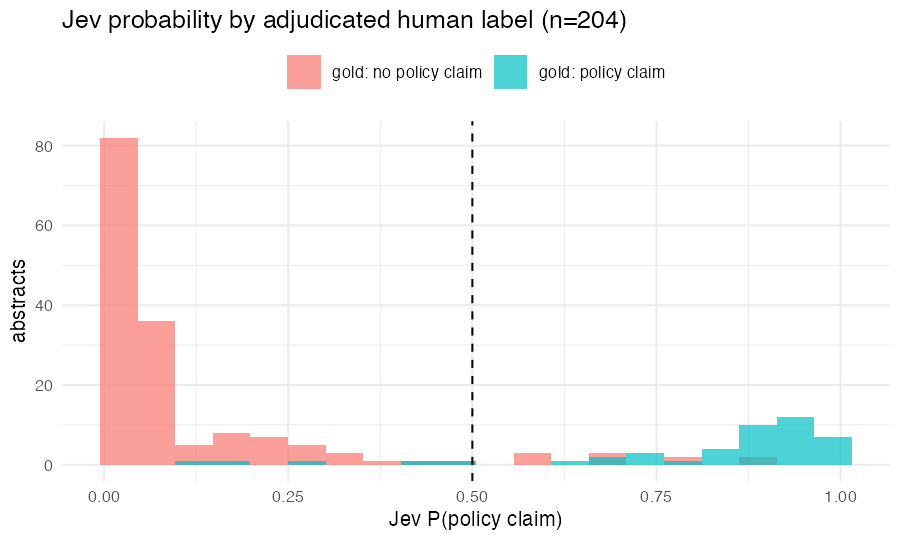
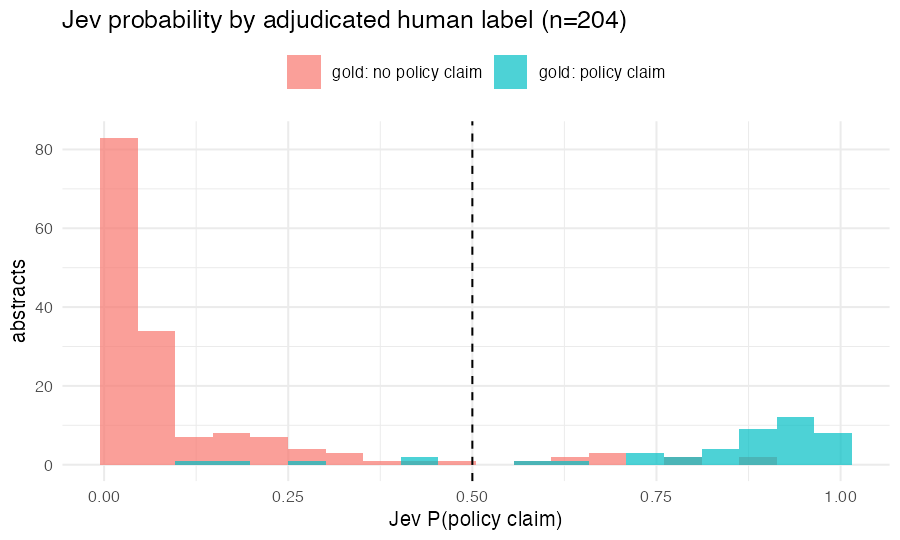
R pass over the full corpus: identical filter output, resumed Jev labels, R report and tables

diff --git a/table/jev_accuracy_report_R.md b/table/jev_accuracy_report_R.md
@@ -9,19 +9,19 @@ Used only to check the question wording; no human labels here.
 
 | comparison | n | agreement_pct | agreement_ci | kappa | kappa_ci | sensitivity | specificity | ppv | npv | prevalence_ref_pct | prevalence_pred_pct |
 |---|---|---|---|---|---|---|---|---|---|---|---|
-| dev400: Jev noul vs DeepSeek | 400 | 89.800 | (86.7, 92.8) | 0.770 | (0.705, 0.832) | 1 | 0.858 | 0.730 | 1 | 27.800 | 38 |
-| dev400: Jev choice vs DeepSeek | 400 | 89.800 | (86.8, 92.5) | 0.769 | (0.702, 0.828) | 0.991 | 0.862 | 0.733 | 0.996 | 27.800 | 37.500 |
+| dev400: Jev noul vs DeepSeek | 400 | 89.200 | (86.0, 92.2) | 0.758 | (0.686, 0.821) | 0.982 | 0.858 | 0.727 | 0.992 | 27.800 | 37.500 |
+| dev400: Jev choice vs DeepSeek | 400 | 89.500 | (86.2, 92.5) | 0.764 | (0.698, 0.825) | 0.991 | 0.858 | 0.728 | 0.996 | 27.800 | 37.800 |
 
 Calibration of Jev's P(policy claim) against the DeepSeek label:
 
 | p_yes_bin | n | observed_rate | mean_p_yes_pct |
 |---|---|---|---|
-| [0,0.1] | 188 |   0 | 4.500 |
-| (0.1,0.3] |  44 |   0 | 18 |
-| (0.3,0.5] |  18 | 5.600 | 39.600 |
-| (0.5,0.7] |  33 | 21.200 | 59.300 |
-| (0.7,0.9] |  50 |  72 | 82 |
-| (0.9,1] |  67 | 100 | 95.100 |
+| [0,0.1] | 189 |   0 | 4.600 |
+| (0.1,0.3] |  46 |   0 | 19 |
+| (0.3,0.5] |  15 | 13.300 | 42 |
+| (0.5,0.7] |  31 | 16.100 | 59.200 |
+| (0.7,0.9] |  54 | 72.200 | 81.900 |
+| (0.9,1] |  65 | 100 | 95.200 |
 
 ## 2. Gold standard workbook (n=204 abstracts with human review)
 
@@ -31,33 +31,33 @@ The paper reports DeepSeek vs the adjudicated gold standard: kappa 0.80, sensiti
 |---|---|---|---|---|---|---|---|---|---|---|---|
 | gold: DeepSeek vs adjudicated gold standard | 204 | 92.600 | (89.2, 96.1) | 0.803 | (0.703, 0.891) | 0.956 | 0.918 | 0.768 | 0.986 | 22.100 | 27.500 |
 | gold: Jev noul vs adjudicated gold standard | 204 | 92.600 | (88.7, 96.1) | 0.794 | (0.688, 0.886) | 0.889 | 0.937 | 0.800 | 0.968 | 22.100 | 24.500 |
-| gold: Jev choice vs adjudicated gold standard | 204 | 92.200 | (88.2, 95.6) | 0.782 | (0.675, 0.877) | 0.889 | 0.931 | 0.784 | 0.967 | 22.100 | 25 |
+| gold: Jev choice vs adjudicated gold standard | 204 | 92.200 | (88.2, 95.6) | 0.782 | (0.674, 0.877) | 0.889 | 0.931 | 0.784 | 0.967 | 22.100 | 25 |
 | gold: DeepSeek vs gold standard excl. non-empirical/truncated | 197 | 92.900 | (89.3, 95.9) | 0.805 | (0.702, 0.891) | 0.952 | 0.923 | 0.769 | 0.986 | 21.300 | 26.400 |
 | gold: Jev noul vs gold standard excl. non-empirical/truncated | 197 | 92.900 | (89.3, 95.9) | 0.799 | (0.684, 0.891) | 0.905 | 0.935 | 0.792 | 0.973 | 21.300 | 24.400 |
-| gold: Jev choice vs gold standard excl. non-empirical/truncated | 197 | 92.400 | (88.3, 95.9) | 0.786 | (0.673, 0.885) | 0.905 | 0.929 | 0.776 | 0.973 | 21.300 | 24.900 |
+| gold: Jev choice vs gold standard excl. non-empirical/truncated | 197 | 92.400 | (88.3, 95.9) | 0.786 | (0.667, 0.880) | 0.905 | 0.929 | 0.776 | 0.973 | 21.300 | 24.900 |
 | gold: DeepSeek vs reviewer DB (author 1) | 204 | 91.200 | (87.3, 94.6) | 0.765 | (0.657, 0.859) | 0.913 | 0.911 | 0.750 | 0.973 | 22.500 | 27.500 |
 | gold: Jev noul vs reviewer DB (author 1) | 204 | 91.200 | (87.3, 95.1) | 0.755 | (0.647, 0.859) | 0.848 | 0.930 | 0.780 | 0.955 | 22.500 | 24.500 |
-| gold: Jev choice vs reviewer DB (author 1) | 204 | 90.700 | (86.8, 94.6) | 0.743 | (0.635, 0.845) | 0.848 | 0.924 | 0.765 | 0.954 | 22.500 | 25 |
+| gold: Jev choice vs reviewer DB (author 1) | 204 | 90.700 | (86.8, 94.6) | 0.743 | (0.636, 0.847) | 0.848 | 0.924 | 0.765 | 0.954 | 22.500 | 25 |
 | gold: DeepSeek vs reviewer EC (author 5) | 204 | 92.600 | (89.2, 96.1) | 0.803 | (0.703, 0.891) | 0.956 | 0.918 | 0.768 | 0.986 | 22.100 | 27.500 |
 | gold: Jev noul vs reviewer EC (author 5) | 204 | 92.600 | (88.7, 96.1) | 0.794 | (0.688, 0.886) | 0.889 | 0.937 | 0.800 | 0.968 | 22.100 | 24.500 |
-| gold: Jev choice vs reviewer EC (author 5) | 204 | 92.200 | (88.2, 95.6) | 0.782 | (0.675, 0.877) | 0.889 | 0.931 | 0.784 | 0.967 | 22.100 | 25 |
+| gold: Jev choice vs reviewer EC (author 5) | 204 | 92.200 | (88.2, 95.6) | 0.782 | (0.674, 0.877) | 0.889 | 0.931 | 0.784 | 0.967 | 22.100 | 25 |
 | gold: DeepSeek vs reviewer MW (author 2) | 104 | 95.200 | (90.4, 99.0) | 0.882 | (0.770, 0.974) | 0.931 | 0.960 | 0.900 | 0.973 | 27.900 | 28.800 |
 | gold: Jev noul vs reviewer MW (author 2) | 104 | 94.200 | (89.4, 98.1) | 0.853 | (0.719, 0.956) | 0.862 | 0.973 | 0.926 | 0.948 | 27.900 | 26 |
-| gold: Jev choice vs reviewer MW (author 2) | 104 | 94.200 | (89.4, 98.1) | 0.853 | (0.719, 0.956) | 0.862 | 0.973 | 0.926 | 0.948 | 27.900 | 26 |
+| gold: Jev choice vs reviewer MW (author 2) | 104 | 93.300 | (88.5, 97.1) | 0.831 | (0.692, 0.939) | 0.862 | 0.960 | 0.893 | 0.947 | 27.900 | 26.900 |
 | gold: Jev noul vs DeepSeek | 204 | 93.100 | (89.7, 96.1) | 0.822 | (0.731, 0.904) | 0.821 | 0.973 | 0.920 | 0.935 | 27.500 | 24.500 |
-| gold: Jev choice vs DeepSeek | 204 | 93.600 | (90.2, 96.6) | 0.835 | (0.746, 0.911) | 0.839 | 0.973 | 0.922 | 0.941 | 27.500 | 25 |
+| gold: Jev choice vs DeepSeek | 204 | 93.600 | (90.2, 96.6) | 0.835 | (0.746, 0.910) | 0.839 | 0.973 | 0.922 | 0.941 | 27.500 | 25 |
 
-Jev P(policy claim) vs the adjudicated gold standard: AUC = 0.978, Brier score = 0.053 (n=204).
+Jev P(policy claim) vs the adjudicated gold standard: AUC = 0.977, Brier score = 0.053 (n=204).
 
 Calibration against the adjudicated gold standard:
 
 | p_yes_bin | n | observed_rate | mean_p_yes_pct |
 |---|---|---|---|
-| [0,0.1] | 120 | 0.800 | 4.300 |
-| (0.1,0.3] |  26 | 7.700 | 19.800 |
-| (0.3,0.5] |   8 |  25 | 39.600 |
-| (0.5,0.7] |   9 | 33.300 | 64.400 |
-| (0.7,0.9] |  20 |  80 | 84.200 |
+| [0,0.1] | 118 |   0 | 4.200 |
+| (0.1,0.3] |  28 | 10.700 | 18.900 |
+| (0.3,0.5] |   8 |  25 | 39.100 |
+| (0.5,0.7] |   8 |  25 | 63 |
+| (0.7,0.9] |  21 |  81 | 83.800 |
 | (0.9,1] |  21 | 100 | 95.400 |
 
 ## 3. Blinded stratified sample (n=400, 1990-2024), reviewers DB and EC
@@ -67,16 +67,16 @@ Adjudicated label = DB where DB and EC agree, otherwise DB's double-check (rule 
 | comparison | n | agreement_pct | agreement_ci | kappa | kappa_ci | sensitivity | specificity | ppv | npv | prevalence_ref_pct | prevalence_pred_pct |
 |---|---|---|---|---|---|---|---|---|---|---|---|
 | strat400: DeepSeek vs adjudicated manual label | 400 | 86 | (82.5, 89.2) | 0.655 | (0.567, 0.733) | 0.661 | 0.952 | 0.866 | 0.858 | 31.800 | 24.200 |
-| strat400: Jev noul vs adjudicated manual label | 400 | 89.800 | (86.5, 92.5) | 0.759 | (0.680, 0.823) | 0.803 | 0.941 | 0.864 | 0.911 | 31.800 | 29.500 |
-| strat400: Jev choice vs adjudicated manual label | 400 | 90.800 | (87.8, 93.3) | 0.784 | (0.712, 0.845) | 0.835 | 0.941 | 0.869 | 0.924 | 31.800 | 30.500 |
+| strat400: Jev noul vs adjudicated manual label | 400 | 90 | (86.8, 92.8) | 0.765 | (0.685, 0.829) | 0.811 | 0.941 | 0.866 | 0.915 | 31.800 | 29.800 |
+| strat400: Jev choice vs adjudicated manual label | 400 | 90.500 | (87.2, 93.2) | 0.778 | (0.703, 0.841) | 0.827 | 0.941 | 0.868 | 0.921 | 31.800 | 30.200 |
 | strat400: DeepSeek vs reviewer DB (blinded) | 400 | 83.200 | (79.5, 87.0) | 0.611 | (0.527, 0.693) | 0.603 | 0.965 | 0.907 | 0.809 | 36.500 | 24.200 |
-| strat400: Jev noul vs reviewer DB (blinded) | 400 | 87 | (83.2, 90.2) | 0.708 | (0.631, 0.778) | 0.726 | 0.953 | 0.898 | 0.858 | 36.500 | 29.500 |
-| strat400: Jev choice vs reviewer DB (blinded) | 400 | 88 | (84.5, 91.0) | 0.732 | (0.655, 0.802) | 0.753 | 0.953 | 0.902 | 0.871 | 36.500 | 30.500 |
+| strat400: Jev noul vs reviewer DB (blinded) | 400 | 87.200 | (83.8, 90.2) | 0.714 | (0.637, 0.782) | 0.733 | 0.953 | 0.899 | 0.861 | 36.500 | 29.800 |
+| strat400: Jev choice vs reviewer DB (blinded) | 400 | 87.800 | (84.2, 90.8) | 0.726 | (0.646, 0.798) | 0.747 | 0.953 | 0.901 | 0.867 | 36.500 | 30.200 |
 | strat400: DeepSeek vs reviewer EC (blinded) | 400 | 85.800 | (82.2, 89.0) | 0.643 | (0.558, 0.723) | 0.664 | 0.942 | 0.835 | 0.865 | 30.500 | 24.200 |
-| strat400: Jev noul vs reviewer EC (blinded) | 400 | 89 | (85.5, 91.8) | 0.738 | (0.658, 0.808) | 0.803 | 0.928 | 0.831 | 0.915 | 30.500 | 29.500 |
-| strat400: Jev choice vs reviewer EC (blinded) | 400 | 90 | (87.0, 92.8) | 0.764 | (0.692, 0.832) | 0.836 | 0.928 | 0.836 | 0.928 | 30.500 | 30.500 |
+| strat400: Jev noul vs reviewer EC (blinded) | 400 | 89.200 | (86.0, 92.0) | 0.745 | (0.666, 0.811) | 0.811 | 0.928 | 0.832 | 0.918 | 30.500 | 29.800 |
+| strat400: Jev choice vs reviewer EC (blinded) | 400 | 89.800 | (86.5, 92.5) | 0.758 | (0.681, 0.826) | 0.828 | 0.928 | 0.835 | 0.925 | 30.500 | 30.200 |
 | strat400: reviewer EC vs reviewer DB (human-human) | 400 | 94 | (91.5, 96.2) | 0.866 | (0.809, 0.914) | 0.836 | 1 | 1 | 0.914 | 36.500 | 30.500 |
-| strat400: Jev noul vs DeepSeek | 400 | 93.200 | (90.8, 95.8) | 0.829 | (0.767, 0.889) | 0.969 | 0.921 | 0.797 | 0.989 | 24.200 | 29.500 |
+| strat400: Jev noul vs DeepSeek | 400 | 93.500 | (91.2, 96.0) | 0.836 | (0.776, 0.897) | 0.979 | 0.921 | 0.798 | 0.993 | 24.200 | 29.800 |
 
 Jev P(policy claim) vs the adjudicated manual label: AUC = 0.956, Brier = 0.076.
 
@@ -87,7 +87,7 @@ Policy-claim rate by period (Supplementary Table 8 style; Wilson 95% CIs; chi-sq
 | 1990-1999 | 114 | 19.300 | (13.1, 27.5) | 13.200 | (8.1, 20.6) | 16.700 | (10.9, 24.6) |
 | 2000-2009 | 115 | 27.800 | (20.5, 36.6) | 22.600 | (15.9, 31.1) | 27.800 | (20.5, 36.6) |
 | 2010-2019 | 114 | 36 | (27.7, 45.1) | 27.200 | (19.9, 36.0) | 31.600 | (23.8, 40.6) |
-| 2020-2024 |  57 | 56.100 | (43.3, 68.2) | 43.900 | (31.8, 56.7) | 54.400 | (41.6, 66.6) |
+| 2020-2024 |  57 | 56.100 | (43.3, 68.2) | 43.900 | (31.8, 56.7) | 56.100 | (43.3, 68.2) |
 
 ## 4. Test-retest reliability (repeated Jev runs on the gold-standard abstracts)
 
@@ -95,13 +95,84 @@ DeepSeek reference (paper): kappa 0.90-0.98 across three runs of 200 abstracts a
 
 | comparison | n | kappa | agreement_pct | mean_abs_diff_p_yes | max_abs_diff_p_yes | deepseek_kappa_reference |
 |---|---|---|---|---|---|---|
-| run1 vs run2 | 204 | 1 | 100 | 0.004 | 0.050 | 0.905 |
+| run1 vs run2 | 204 | 1 | 100 | 0.004 | 0.030 | 0.905 |
 | run1 vs run3 | 204 | 1 | 100 | 0.005 | 0.040 | 0.930 |
-| run2 vs run3 | 204 | 1 | 100 | 0.005 | 0.050 | 0.978 |
+| run2 vs run3 | 204 | 1 | 100 | 0.004 | 0.060 | 0.978 |
 
-## 5. Full corpus
+## 5. Full corpus: Jev vs DeepSeek
 
-_Not yet run: `data/json_files/filtered/all_abstracts_JEV.csv` not found. Fetch the abstracts (01_fetch_abstracts.R, 02_filter_records.R) and run 03_run_jev_classification.R._
+Matched 45,671 of 46,279 Jev-classified abstracts to the derived dataset by DOI (fallback title+journal+year); 608 unmatched.
+
+| comparison | n | agreement_pct | agreement_ci | kappa | kappa_ci | sensitivity | specificity | ppv | npv | prevalence_ref_pct | prevalence_pred_pct |
+|---|---|---|---|---|---|---|---|---|---|---|---|
+| corpus: Jev noul vs DeepSeek | 45671 | 92.600 | (92.4, 92.8) | 0.819 | (0.814, 0.824) | 0.963 | 0.913 | 0.793 | 0.986 | 25.600 | 31.100 |
+| corpus: Jev choice vs DeepSeek | 45671 | 92.300 | (92.0, 92.5) | 0.812 | (0.807, 0.818) | 0.967 | 0.908 | 0.783 | 0.987 | 25.600 | 31.600 |
+
+### By period (Table 1 style, % with policy claim)
+
+| row | DeepSeek 1990-1999 | Jev 1990-1999 | DeepSeek 2000-2009 | Jev 2000-2009 | DeepSeek 2010-2019 | Jev 2010-2019 | DeepSeek 2020-2024 | Jev 2020-2024 | DeepSeek All years | Jev All years |
+|---|---|---|---|---|---|---|---|---|---|---|
+| All abstracts | 17.700 | 23 | 22.800 | 27.600 | 28.400 | 34.200 | 35.800 | 42 | 25.600 | 31.100 |
+| Journal: American Journal of Epidemiology | 8.200 | 10.400 | 8.600 | 9.700 | 11 | 12.400 | 15.600 | 18.500 | 9.900 | 11.600 |
+| Journal: American Journal of Preventive Medicine | 31.700 | 41 | 37.200 | 45.100 | 35.900 | 44.900 | 47.200 | 56.700 | 38.200 | 47.100 |
+| Journal: American Journal of Public Health | 24.500 | 31.700 | 33.700 | 40.600 | 38.600 | 48.700 | 46.200 | 55.700 | 33.700 | 42 |
+| Journal: Epidemiology | 1.300 | 2.300 | 4.200 | 4.600 | 4.500 | 5.900 | 5.100 | 7.700 | 3.700 | 4.800 |
+| Journal: European Journal of Epidemiology | 19.500 | 23.500 | 15.300 | 18.100 | 10 | 11.600 | 14.300 | 15.700 | 14.400 | 16.800 |
+| Journal: European Journal of Public Health | 27.800 | 33.500 | 33.600 | 40.300 | 40.300 | 45.200 | 45.200 | 51.100 | 38.600 | 44.300 |
+| Journal: International Journal of Epidemiology | 15.400 | 19.900 | 20 | 23 | 16.400 | 18.800 | 20 | 22.900 | 17.500 | 20.800 |
+| Journal: Journal of Epidemiology and Community Health | 20.800 | 27 | 25.900 | 30.200 | 30.500 | 35.200 | 40.800 | 44.200 | 28.700 | 33.400 |
+| Journal: Lancet Public Health |  |  |  |  | 59.100 | 75.600 | 64 | 77.600 | 62.400 | 76.900 |
+| Journal: Preventive Medicine | 25.100 | 35.900 | 30.300 | 40.200 | 38.100 | 45.900 | 45.300 | 53.200 | 35.700 | 44.500 |
+
+### By journal
+
+| journal | n | deepseek_rate_pct | jev_rate_pct | agreement_pct | kappa |
+|---|---|---|---|---|---|
+| Epidemiology | 3094 | 3.700 | 4.800 | 97.700 | 0.718 |
+| American Journal of Epidemiology | 7914 | 9.900 | 11.600 | 96.600 | 0.821 |
+| European Journal of Epidemiology | 2655 | 14.400 | 16.800 | 96 | 0.850 |
+| International Journal of Epidemiology | 4790 | 17.500 | 20.800 | 95 | 0.838 |
+| Journal of Epidemiology and Community Health | 4269 | 28.700 | 33.400 | 93.500 | 0.848 |
+| American Journal of Public Health | 7801 | 33.700 | 42 | 89.900 | 0.786 |
+| Preventive Medicine | 6366 | 35.700 | 44.500 | 89.100 | 0.776 |
+| American Journal of Preventive Medicine | 5177 | 38.200 | 47.100 | 88.200 | 0.760 |
+| European Journal of Public Health | 3206 | 38.600 | 44.300 | 92.300 | 0.842 |
+| Lancet Public Health |  399 | 62.400 | 76.900 | 84.500 | 0.641 |
+
+### Top-15 countries (first author)
+
+| country | n | deepseek_rate_pct | jev_rate_pct | agreement_pct | kappa |
+|---|---|---|---|---|---|
+| NORWAY |   599 | 12 | 14 | 97 | 0.867 |
+| DENMARK |  1019 | 14.100 | 17.300 | 96.100 | 0.852 |
+| JAPAN |   535 | 16.300 | 17.900 | 97.200 | 0.901 |
+| SWEDEN |  1518 | 17.500 | 20.400 | 96 | 0.872 |
+| GERMANY |   698 | 21.200 | 23.900 | 96.400 | 0.898 |
+| FINLAND |   789 | 21.300 | 25 | 94.800 | 0.854 |
+| NETHERLANDS |  1679 | 22.600 | 27.100 | 94 | 0.839 |
+| ITALY |   864 | 23.100 | 27 | 94.800 | 0.862 |
+| FRANCE |  1118 | 24.100 | 28 | 94.500 | 0.856 |
+| SPAIN |   798 | 25.300 | 29.400 | 95.100 | 0.877 |
+| UNITED KINGDOM |  4546 | 25.700 | 30.600 | 92.900 | 0.825 |
+| CHINA |   569 | 26.900 | 29.900 | 93.100 | 0.832 |
+| UNITED STATES | 23989 | 26.900 | 33.400 | 91.500 | 0.800 |
+| CANADA |  1960 | 27.400 | 31.800 | 93 | 0.831 |
+| AUSTRALIA |  1338 | 30.300 | 36.800 | 91.300 | 0.807 |
+
+### By study design
+
+| design_combined | n | deepseek_rate_pct | jev_rate_pct | agreement_pct | kappa |
+|---|---|---|---|---|---|
+| Case-control |  2428 | 9.900 | 11.300 | 97.600 | 0.872 |
+| Cohort |  7192 | 20.200 | 23.100 | 95.500 | 0.868 |
+| Cross-sectional |  2021 | 36.900 | 43.400 | 92.200 | 0.838 |
+| Ecological / Time-series |   516 | 26.600 | 30.800 | 93.400 | 0.839 |
+| Experimental |  2063 | 13.800 | 18.400 | 92.400 | 0.721 |
+| Other/None | 30644 | 28.100 | 34.500 | 91.600 | 0.806 |
+| Qualitative |   122 | 46.700 | 61.500 | 85.200 | 0.709 |
+| Quasi-experimental |   685 | 25.700 | 31.700 | 92 | 0.805 |
+
+![trend](../figures/jev_vs_deepseek_trend_R.png)
 
 ## 6. Speed and cost
 
@@ -111,11 +182,12 @@ Jev runs recorded by the classification script:
 
 | run | n | workers | wall_s | abstracts_per_s | latency_p50_ms | latency_p90_ms | cost_usd | tokens_per_abstract |
 |---|---|---|---|---|---|---|---|---|
-| jev_design400 | 400 | 8 | 18.330 | 21.823 | 303 |  445 | 0.029 | 1694 |
-| jev_gold_standard_run1 | 204 | 8 | 13.350 | 15.283 | 331 | 1118 | 0.014 | 1685 |
-| jev_gold_standard_run2 | 204 | 8 | 10.160 | 20.073 | 301 |  643 | 0.014 | 1685 |
-| jev_gold_standard_run3 | 204 | 8 | 10.190 | 20.013 | 309 |  623 | 0.014 | 1685 |
-| jev_stratified400 | 400 | 8 | 18.840 | 21.226 | 308 |  487 | 0.028 | 1685 |
+| jev_design400 |   400 |  8 | 17.760 | 22.523 | 303 | 391 | 0.029 | 1694 |
+| jev_gold_standard_run1 |   204 |  8 | 8.740 | 23.332 | 296 | 377 | 0.014 | 1685 |
+| jev_gold_standard_run2 |   204 |  8 | 9.310 | 21.906 | 291 | 380 | 0.014 | 1685 |
+| jev_gold_standard_run3 |   204 |  8 | 8.820 | 23.129 | 292 | 398 | 0.014 | 1685 |
+| jev_stratified400 |   400 |  8 | 16.370 | 24.431 | 290 | 383 | 0.028 | 1685 |
+| all_abstracts_JEV | 46279 | 16 | 881.820 | 52.481 | 292 | 365 | 3.272 | 1684 |
 
 Concurrency benchmark:
 
